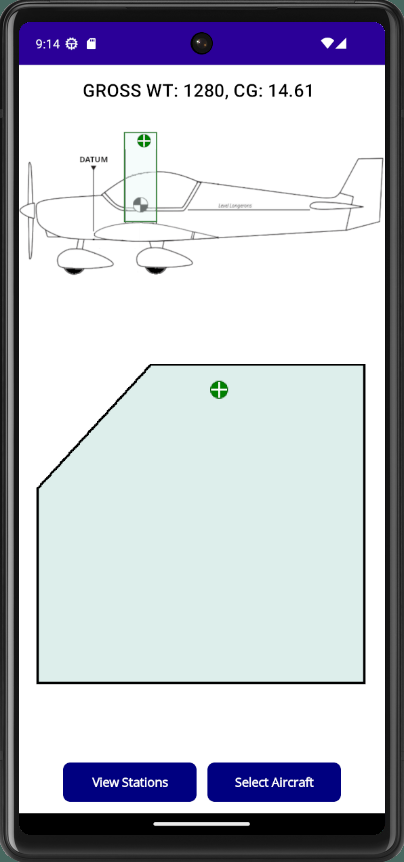
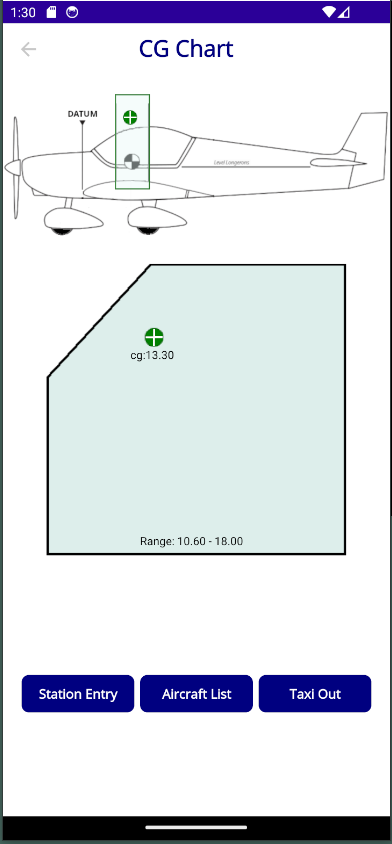
Fine-tuned dot position on main chart graphic

diff --git a/WeightBalance/Drawables/ChartOverlay.cs b/WeightBalance/Drawables/ChartOverlay.cs
@@ -65,8 +65,8 @@ internal class ChartOverlay : IDrawable
 
         if (!aircraft.IsWithinWeight)
         {
-            canvas.FontSize = 16;
-            canvas.Font = Font.Default;
+            canvas.FontSize = 14;
+            canvas.Font = Font.DefaultBold;
             canvas.FontColor = Colors.Red;
             canvas.DrawString("* OVER MAX GROSS *", 200, 190, HorizontalAlignment.Justified);
         }

diff --git a/WeightBalance/Models/Plotter.cs b/WeightBalance/Models/Plotter.cs
@@ -50,7 +50,7 @@
 
             //Rect rect = new Rect(20, 60, 370, 360);
 
-            double dotX = PlotX(chartrect, maxcg, mincg, cog);
+            double dotX = PlotX(chartrect, maxcg, mincg, cog) - 20;
             double dotY = PlotY(chartrect, aircraft.MaxGross, aircraft.MinGross, aircraft.TotalWeight);
 
             PointF point = new Point(dotX, dotY);
